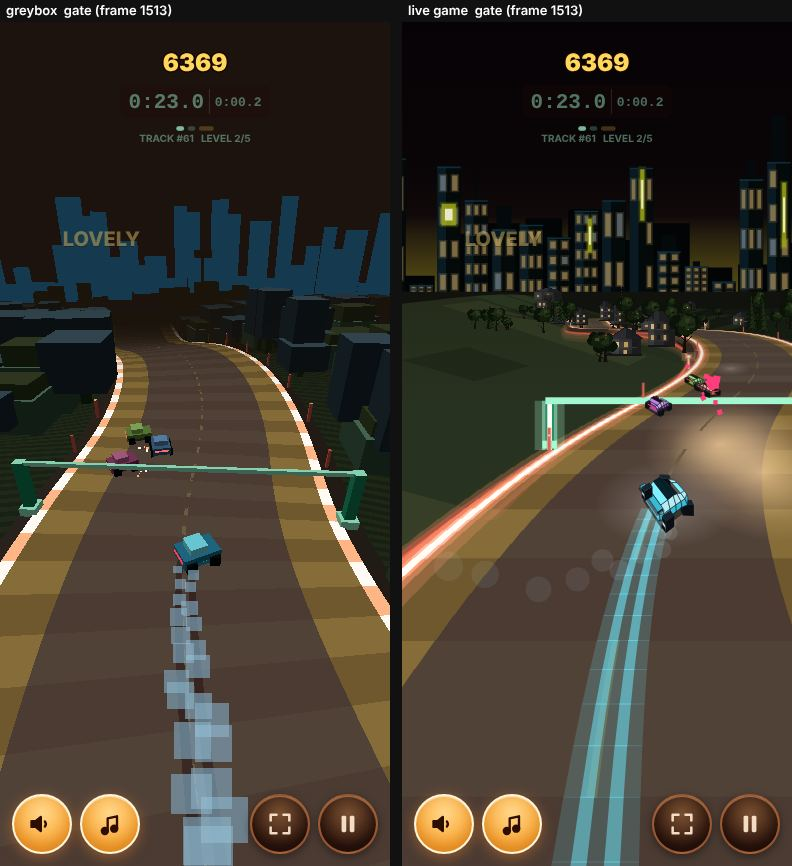
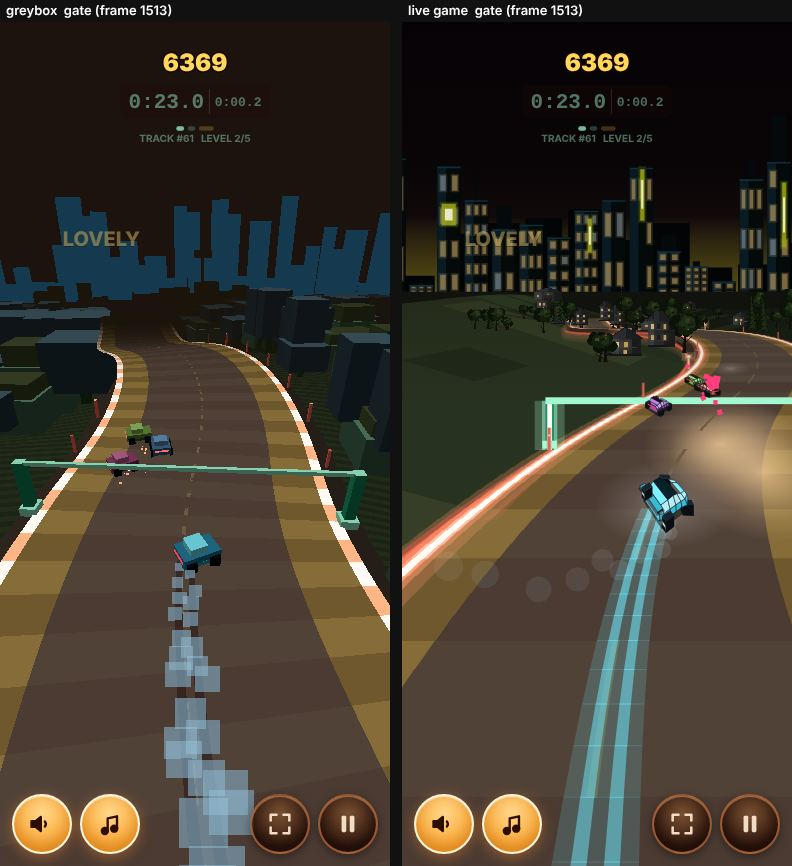
crazygames: stage 2, the review set on the layered world, with its known answer
The probe skipped the GPU submission on the way to each greybox frame and
then redrew the road layer alone, which since the layered world left the
terrain and roadside out of every greybox shot. The page's own frame now
draws the last frame, both layers, as in play.

Each shot now records the simulation's state on both sides and must
match exactly, and must show what it is named for (in the air for the
jump, a hit for the wreck, and so on). Known answer: the original driven
one frame further than the page is caught (position and carX differ).

Run: 20 of 20 images, 2.11 MB, 20 in the same state on both sides, 20
showing their scene, no page errors: PASS.

Changed region(s): [[0.1818, 0.6547, 0.3333, 1.0], [0.1212, 0.3741, 0.1515, 0.4365]]

diff --git a/crazygames/probes/review-shots.js b/crazygames/probes/review-shots.js
@@ -7,6 +7,12 @@
    (the parity test says the two sides are identical frame for frame, so
    the frame numbers carry across). JPEG, so the set stays under 5MB.
 
+   Each side reports the simulation's state at the shot frame, and the two
+   must match exactly, and the scene must show what it is named for (the
+   car in the air for the jump, a hit for the wreck, and so on). Known
+   answer: the original driven one frame further than the page must be
+   caught as a mismatch.
+
    node probes/review-shots.js   writes review/stage-2/shots/*.jpg and shots.json */
 import fs from 'node:fs';
 import path from 'node:path';
@@ -86,28 +92,64 @@ const scenes = [
 ].filter(s => s.frame !== null && s.frame >= 0 && (!s.job || jobs[s.job]));
 
 /* ---- shoot: both sides to the frame, then screenshot ---- */
-async function shoot(side, viewport, scene) {
+/* What the simulation says at the frame, the same on both sides. */
+const FINGERPRINT = () => {
+  const S = window.__S, d = S.get('drift');
+  const hz = S.get('hazards'), idx = S.get('carSegIndex');
+  const ahead = hz.filter(h => h.from > idx).map(h => h.from - idx);
+  return { state: S.get('state'), deathKind: S.get('deathKind'), level: S.get('level'), gatesPassed: S.get('gatesPassed'), countdown: S.get('countdown'), position: S.get('position'), carX: S.get('carX'), carY: S.get('carY'), airborne: S.get('airborne'), slipNorm: d.slipNorm, hazardAhead: ahead.length ? Math.min(...ahead) : null, names: { DRIVING: S.get('DRIVING'), DEAD: S.get('DEAD'), FINISHED: S.get('FINISHED'), HIT_OBJECT: S.get('HIT_OBJECT') } };
+};
+/* Does the frame show what the scene is named for. */
+function showsScene(scene, fp, contacts) {
+  const N = fp.names;
+  switch (scene.name.slice(3)) {
+    case 'title': return fp.state !== N.DRIVING && fp.state !== N.DEAD && fp.state !== N.FINISHED;
+    case 'countdown': return fp.state === N.DRIVING && fp.countdown > 0;
+    case 'deep-drift': return fp.state === N.DRIVING && fp.slipNorm >= 0.5 && fp.carY === 0;
+    case 'jump-in-the-air': return fp.airborne === true && fp.carY > 0;
+    case 'hazard-approach': return fp.state === N.DRIVING && fp.hazardAhead !== null && fp.hazardAhead <= 32;
+    case 'contact-with-a-racer': return contacts > 0;
+    case 'wreck': return fp.state === N.DEAD && fp.deathKind === N.HIT_OBJECT;
+    case 'gate': return fp.state === N.DRIVING;
+    case 'finish': case 'run-card': return fp.state === N.FINISHED;
+  }
+  return false;
+}
+async function shoot(side, viewport, scene, opts) {
   const s = await L.openSide(env, side, viewport, days[0]);
+  const frame = scene.frame + ((opts && opts.extraFrames) || 0);
+  let contacts = 0;
   if (scene.job) {
     /* The greybox skips its GPU submission on the way to the frame (its
        scene is rebuilt from the simulation every frame, so only the last
        one needs drawing); the original draws every frame, as it must. */
-    await s.page.evaluate(({ job, frame, page }) => {
+    contacts = await s.page.evaluate(({ job, frame, page }) => {
       const S = window.__S;
-      let real = null;
-      if (page) { real = S.world.renderer.render; S.world.renderer.render = () => {}; }
+      let real = null, restored = !page;
+      const frameFn = S.fn.__frame;
+      if (page) {
+        /* the last step is drawn by the page's own frame, both layers (the
+           ground under the road, the depth cleared between), as in play */
+        real = S.world.renderer.render; S.world.renderer.render = () => {};
+        let c = 0;
+        S.fn.__frame = t => { if (c++ === frame) { S.world.renderer.render = real; restored = true; } frameFn(t); };
+      }
       window.driveProbe.drive(S, { ...job, maxFrames: frame + 1 }, {});
-      if (page) { S.world.renderer.render = real; S.world.renderer.render(S.world.scene, S.world.camera); }
-    }, { job: jobs[scene.job], frame: scene.frame, page: side === 'page' });
+      if (page) S.fn.__frame = frameFn;
+      if (!restored) throw new Error('the drive ended before frame ' + frame);
+      return page ? S.world.probe.lastContacts.length : 0;
+    }, { job: jobs[scene.job], frame, page: side === 'page' });
   } else {
     // the title screen, with the boot splash over: the page's own frame, called by hand
     await s.page.evaluate(() => { const S = window.__S; S.set('lastTime', 0); let t = 0; for (let i = 0; i < 150; i++) { t += 17; S.fn.__frame(t); } });
   }
-  const png = await s.page.screenshot({ type: 'png' });
+  const fp = await s.page.evaluate(FINGERPRINT);
+  const png = opts && opts.noShot ? null : await s.page.screenshot({ type: 'png' });
   const errors = s.errors.slice();
   await s.close();
-  return { png, errors };
+  return { png, errors, fp, contacts };
 }
+const sameFrame = (a, b) => { const k = ['state', 'deathKind', 'level', 'gatesPassed', 'countdown', 'position', 'carX', 'carY', 'airborne', 'slipNorm', 'hazardAhead']; const diff = k.filter(n => a[n] !== b[n]); return { same: diff.length === 0, diff }; };
 const index = [];
 const composer = await env.browser.newPage({ viewport: { width: 100, height: 100 } });
 let totalBytes = 0;
@@ -130,11 +172,24 @@ for (const viewport of [J.VIEW, J.VIEW_WIDE]) {
     const buf = Buffer.from(jpg, 'base64');
     fs.writeFileSync(path.join(outDir, file), buf);
     totalBytes += buf.length;
-    index.push({ file, scene: scene.name, viewport: viewport.width + 'x' + viewport.height, job: scene.job, frame: scene.frame, bytes: buf.length, errors: { page: a.errors, original: b.errors } });
-    console.log('  ' + file + ' ' + buf.length + ' bytes');
+    const match = sameFrame(a.fp, b.fp), shows = showsScene(scene, a.fp, a.contacts);
+    index.push({ file, scene: scene.name, viewport: viewport.width + 'x' + viewport.height, job: scene.job, frame: scene.frame, bytes: buf.length, sameState: match.same, differs: match.diff, showsScene: shows, state: { state: a.fp.state, carY: a.fp.carY, slipNorm: a.fp.slipNorm, hazardAhead: a.fp.hazardAhead, gatesPassed: a.fp.gatesPassed, contacts: a.contacts }, errors: { page: a.errors, original: b.errors } });
+    console.log('  ' + file + ' ' + buf.length + ' bytes, same state ' + match.same + (match.same ? '' : ' ' + match.diff.join(',')) + ', shows the scene ' + shows);
   }
 }
 await composer.close();
+/* The known answer: the drift scene with the original one frame further on must not match. */
+let knownAnswer;
+{
+  const scene = scenes.find(x => x.name === '03-deep-drift');
+  const a = await shoot('page', J.VIEW, scene, { noShot: true }), b = await shoot('original', J.VIEW, scene, { noShot: true, extraFrames: 1 });
+  const m = sameFrame(a.fp, b.fp);
+  knownAnswer = { scene: scene.name, frame: scene.frame, originalExtraFrames: 1, caught: !m.same, differs: m.diff };
+  console.log('known answer (original one frame on): ' + JSON.stringify(knownAnswer));
+}
 await env.close();
-fs.writeFileSync(path.join(L.root, 'review', 'stage-2', 'shots.json'), JSON.stringify({ frames: found, jobs, shots: index, totalBytes }, null, 1));
-console.log('review set: ' + index.length + ' images, ' + (totalBytes / 1048576).toFixed(2) + ' MB');
+const expected = 10 * 2;
+const pass = index.length === expected && index.every(x => x.sameState && x.showsScene && !x.errors.page.length && !x.errors.original.length) && totalBytes < 5 * 1048576 && knownAnswer.caught;
+fs.writeFileSync(path.join(L.root, 'review', 'stage-2', 'shots.json'), JSON.stringify({ frames: found, jobs, shots: index, totalBytes, expected, knownAnswer, pass }, null, 1));
+console.log('review set: ' + index.length + ' of ' + expected + ' images, ' + (totalBytes / 1048576).toFixed(2) + ' MB, same state ' + index.filter(x => x.sameState).length + ', shows the scene ' + index.filter(x => x.showsScene).length + ': ' + (pass ? 'PASS' : 'FAIL'));
+process.exit(pass ? 0 : 1);
